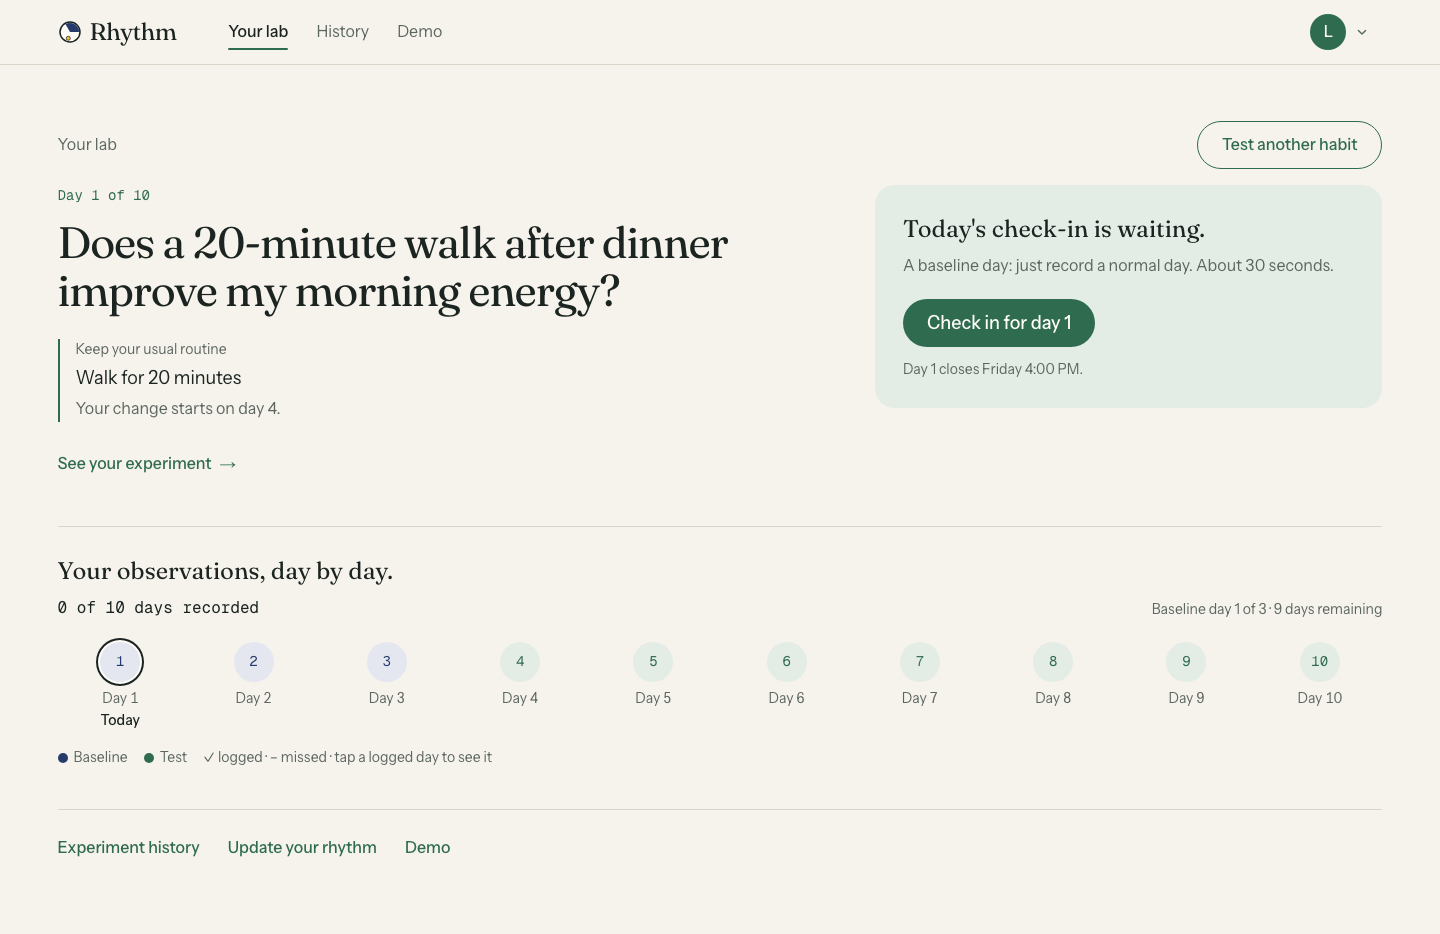
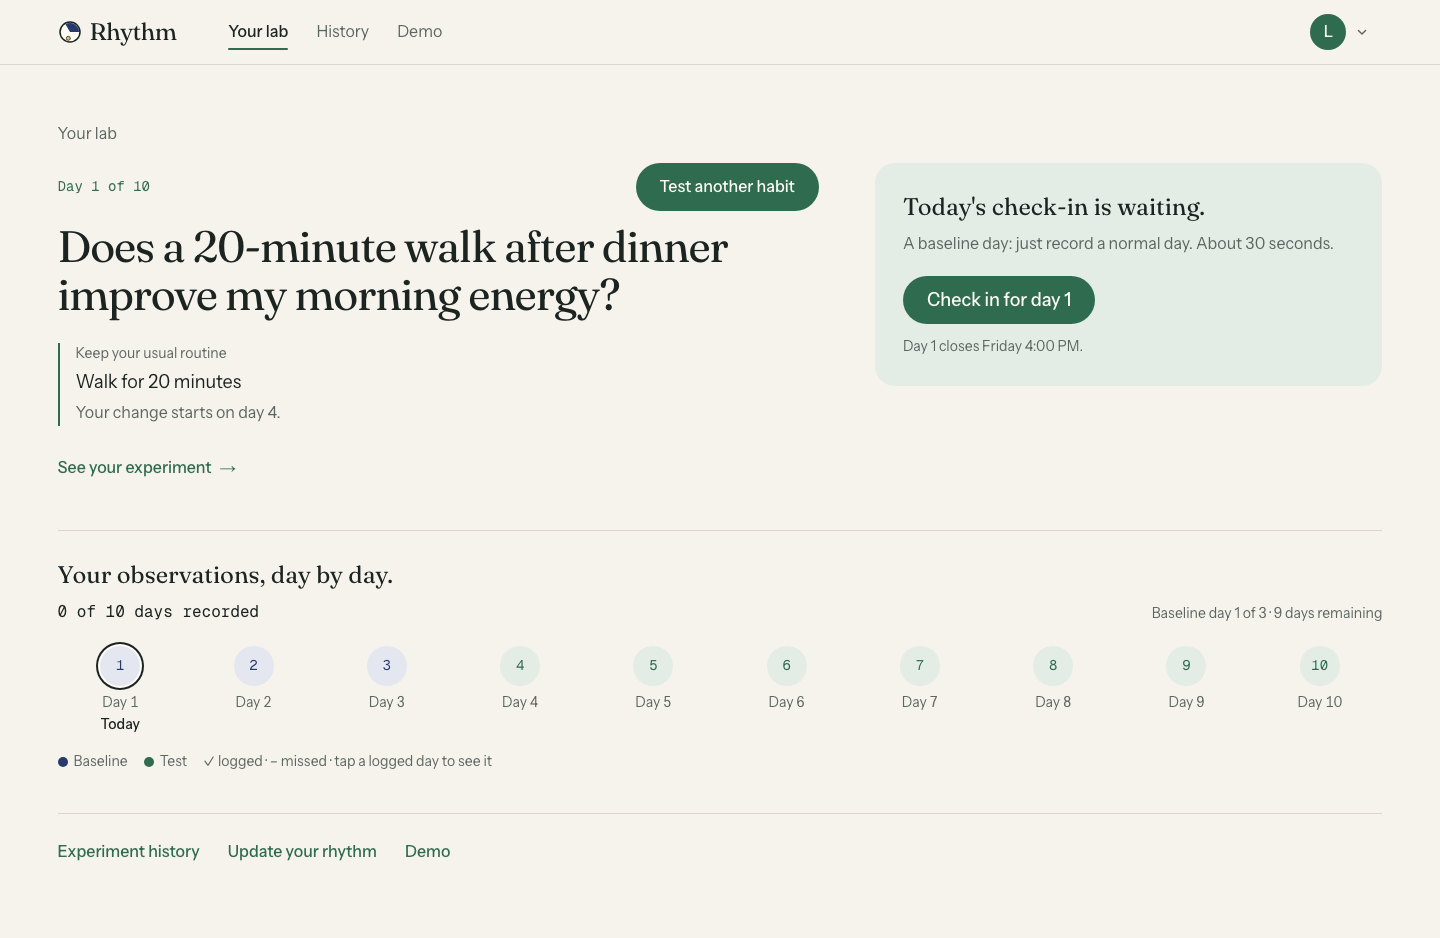
fix(frontend): align the lab action with the experiment day
Make the question action easier to find with a green fill.

diff --git a/frontend/components/home-experience.tsx b/frontend/components/home-experience.tsx
@@ -149,27 +149,27 @@ function ActiveLab({ profile, experiment, checkins }: {
 
   return (
     <>
-      <div className="flex flex-wrap items-center justify-between gap-3">
-        <p className="text-body text-muted">Your lab</p>
-        <button
-          ref={toggle}
-          type="button"
-          aria-expanded={open}
-          aria-controls={panelId}
-          onClick={toggleQuestion}
-          className="min-h-12 rounded-pill border border-moss px-6 font-medium text-moss transition-transform duration-[var(--motion-press)] hover:bg-moss-tint active:scale-[0.98] motion-reduce:transition-none"
-        >
-          {open ? "Close question" : "Test another habit"}
-        </button>
-      </div>
+      <p className="text-body text-muted">Your lab</p>
       <div className="mt-4 grid gap-8 lg:grid-cols-[1.2fr_0.8fr] lg:items-start lg:gap-14">
         <div className="min-w-0">
-          <section hidden={open}>
-            <p className="font-mono text-caption text-moss tabular-nums">
+          <div className="flex flex-wrap items-center justify-between gap-3">
+            <p hidden={open} className="font-mono text-caption text-moss tabular-nums">
               {progress.state === "in_progress"
                 ? `Day ${progress.day_number} of ${progress.total_days}`
                 : progress.state === "ended" ? "Experiment days ended" : progress.state === "completed" ? "Completed" : "Not started"}
             </p>
+            <button
+              ref={toggle}
+              type="button"
+              aria-expanded={open}
+              aria-controls={panelId}
+              onClick={toggleQuestion}
+              className="ml-auto min-h-12 rounded-pill bg-moss px-6 font-medium text-paper transition-transform duration-[var(--motion-press)] hover:bg-moss-deep active:scale-[0.98] motion-reduce:transition-none"
+            >
+              {open ? "Close question" : "Test another habit"}
+            </button>
+          </div>
+          <section hidden={open}>
             <h1 className="mt-3 font-display text-headline tracking-tight text-balance sm:text-display-sm">
               {experiment.question}
             </h1>

diff --git a/frontend/tests/e2e/lab-ask-question.spec.ts b/frontend/tests/e2e/lab-ask-question.spec.ts
@@ -75,7 +75,15 @@ for (const width of [390, 768, 1440]) {
       await expect(page.getByRole("link", { name: "Check in for day 1" })).toBeVisible();
       const toggle = page.getByRole("button", { name: "Test another habit" });
       await expect(toggle).toHaveAttribute("aria-expanded", "false");
-      expect((await toggle.boundingBox())!.y).toBeLessThan((await page.getByRole("heading", { name: experiment.question }).boundingBox())!.y);
+      await page.mouse.move(0, 0); // Check the normal fill, not the hover colour.
+      const actionBox = (await toggle.boundingBox())!;
+      const dayBox = (await page.getByText("Day 1 of 10", { exact: true }).boundingBox())!;
+      const questionBox = (await page.getByRole("heading", { name: experiment.question }).boundingBox())!;
+      expect.soft(Math.abs(actionBox.y + actionBox.height / 2 - dayBox.y - dayBox.height / 2), "the action aligns with the experiment day").toBeLessThan(2);
+      expect.soft(actionBox.x, "the action sits to the right of the day").toBeGreaterThan(dayBox.x + dayBox.width);
+      expect.soft(actionBox.x + actionBox.width, "the action stays inside the experiment column").toBeLessThanOrEqual(questionBox.x + questionBox.width + 1);
+      await expect.soft(toggle).toHaveCSS("background-color", "rgb(47, 107, 79)");
+      await expect.soft(toggle).toHaveCSS("color", "rgb(255, 253, 248)");
       await capture("active-lab");
       await toggle.focus();
       await page.keyboard.press("Enter");

diff --git a/docs/screenshots/lab-ask-question/README.md b/docs/screenshots/lab-ask-question/README.md
@@ -6,7 +6,7 @@ All captures use isolated fake Supabase auth and API responses from the typed fr
 
 ## Final layout
 
-Selected by Nazmul, then refined to keep the action at the top: **Test another habit** sits beside “Your lab”. It replaces the day/question/intervention summary in that same top area with the shared question form. **Close question** restores the summary. Today’s check-in and the timeline stay available in both views. The compact active-lab form omits the starter sidebar; the empty lab and dedicated question page retain it. Opening focuses the field, closing restores focus to the button, and the draft survives closing/reopening. There is no reveal animation to delay interaction; the native button uses the existing transform press feedback and reduced-motion rule.
+Selected by Nazmul, then refined to keep the action at the top: **Test another habit** has a moss-green fill and paper text, aligned to the right of “Day X of N” within the experiment column. It is not pushed to the far edge of the page. It replaces the day/question/intervention summary in that same top area with the shared question form. **Close question** restores the summary. Today’s check-in and the timeline stay available in both views. The compact active-lab form omits the starter sidebar; the empty lab and dedicated question page retain it. Opening focuses the field, closing restores focus to the button, and the draft survives closing/reopening. There is no reveal animation to delay interaction; the native button uses the existing transform press feedback and reduced-motion rule.
 
 | Width | No active experiment | Active lab | Question opened in place | Proposal from home |
 |---|---|---|---|---|
@@ -29,7 +29,7 @@ The current backend still allows only one active experiment (PRD §5.3; TRD §27
 
 Before product changes, the home behavior tests reported **7 failed, 8 passed**: the missing question textbox and Test another habit control caused the failures. No import/setup failure was counted as the red proof.
 
-The top-area refinement first failed because the button followed the experiment summary. Its regression now also checks that the form replaces the summary, retains today’s check-in and the timeline, omits the starter sidebar, and restores the summary on close.
+The top-area refinement first failed because the button followed the experiment summary. The next browser regression first failed because the action was 51px above the day and had a transparent background; it now verifies same-row alignment, containment in the experiment column, and the green/light colour pair. The behavior regression also checks that the form replaces the summary, retains today’s check-in and the timeline, omits the starter sidebar, and restores the summary on close.
 
 The new behavior tests cover native 5–500-character validation and counter, whitespace, the shared proposal/save/start payloads and ordering, retaining the active check-in, draft preservation and focus, active-experiment blocking (including a new experiment started elsewhere), and retry after an active lookup failure. Browser tests add pending prediction, service failure/retry, normal/reduced motion and mobile/tablet/desktop layouts.
 
@@ -39,6 +39,7 @@ Recreate captures with `CAPTURE_LAB_ASK=1 npm run test:e2e -- tests/e2e/lab-ask-
 
 - `npm test`: 106 passed across 20 files.
 - Full `npm run test:e2e` at the first feature commit: 66 passed, one existing skipped keyboard/time-input test. No new skips. The top-area refinement passed all 17 home, shared proposal and full layout-width browser checks, including normal/reduced motion at 390, 768 and 1440px.
+- Button alignment/fill refinement: 13 browser checks passed for home, the shared question flow and the full layout-width matrix; 106 unit tests, lint and typecheck also passed.
 - `npm run lint` and `npm run typecheck`: passed.
 - Production build at the first feature commit, with fake frontend test variables: passed, all 12 pages generated. The required post-merge checks will repeat it before the PR.
 - Browser inspection: 390, 768 and 1440px, with normal and reduced motion. The broader layout suite also passed from 320 through 2560px and at 200% zoom.

diff --git a/.claude-logs/2026-10-29_04-49-43_01a184b2-eeb0-7573-b20f-31f20448fae5.md b/.claude-logs/2026-10-29_04-49-43_01a184b2-eeb0-7573-b20f-31f20448fae5.md
@@ -8,21 +8,21 @@ project: Health
 agent: codex
 session_status: complete
 last_entry_type: assistant
-total_exchanges: 62
-generated_at: 2026-10-30T00:18:39.314824
+total_exchanges: 63
+generated_at: 2026-10-30T00:26:01.631943
 first_prompt_time: 2026-10-28T22:48:18.199Z
-last_prompt_time: 2026-10-29T18:14:05.598Z
-session_duration_minutes: 1165.8
-avg_time_between_prompts_minutes: 19.1
-total_prompt_chars: 55036
-total_prompt_words: 8575
-avg_prompt_length_chars: 887.7
-avg_prompt_length_words: 138.3
+last_prompt_time: 2026-10-29T18:22:41.657Z
+session_duration_minutes: 1174.4
+avg_time_between_prompts_minutes: 18.9
+total_prompt_chars: 55171
+total_prompt_words: 8604
+avg_prompt_length_chars: 875.7
+avg_prompt_length_words: 136.6
 longest_prompt_words: 1782
 shortest_prompt_words: 1
-total_response_chars: 91380
-avg_response_length_chars: 1473.9
-response_to_prompt_ratio: 1.66
+total_response_chars: 92125
+avg_response_length_chars: 1462.3
+response_to_prompt_ratio: 1.67
 prompts_with_code_blocks: 1
 prompts_with_file_paths: 1
 prompts_with_urls: 7
@@ -3334,6 +3334,46 @@ git commit -F - <<'EOF'
 fix(frontend): open lab questions in the top summary area
 
 Replace the summary in place while keeping check-ins available.
+EOF
+```
+
+Waiting for **“committed, continue.”**
+
+
+[CLAUDE_LOG_ENTRY type=PROMPT num=63 session=01a184b2-eeb0-7573-b20f-31f20448fae5]
+timestamp: 2026-10-29T18:22:41.657Z
+time: 2026-10-29 18:22
+chars: 135
+words: 29
+has_code_block: False
+has_file_paths: False
+has_urls: False
+likely_pasted: False
+
+button is too right side keep it align with this Day 1 of 10 on the right side also make it green background so user can see the button
+
+
+[CLAUDE_LOG_ENTRY type=RESPONSE num=63 session=01a184b2-eeb0-7573-b20f-31f20448fae5]
+timestamp: 2026-10-29T18:26:00.279Z
+time: 2026-10-29 18:26
+chars: 745
+
+Done—aligned the button to the right of **“Day 1 of 10”** within the experiment column, with a **green background and light text**.
+
+[Desktop preview](/Users/nazmulahsan/Health/docs/screenshots/lab-ask-question/1440/active-lab.png) · [Phone preview](/Users/nazmulahsan/Health/docs/screenshots/lab-ask-question/390/active-lab.png)
+
+106 unit tests, 13 browser checks, lint and typecheck pass.
+
+```bash
+git add .claude-logs/ \
+  frontend/components/home-experience.tsx \
+  frontend/tests/e2e/lab-ask-question.spec.ts \
+  docs/screenshots/lab-ask-question/
+
+git commit -F - <<'EOF'
+fix(frontend): align the lab action with the experiment day
+
+Make the question action easier to find with a green fill.
 EOF
 ```
 
